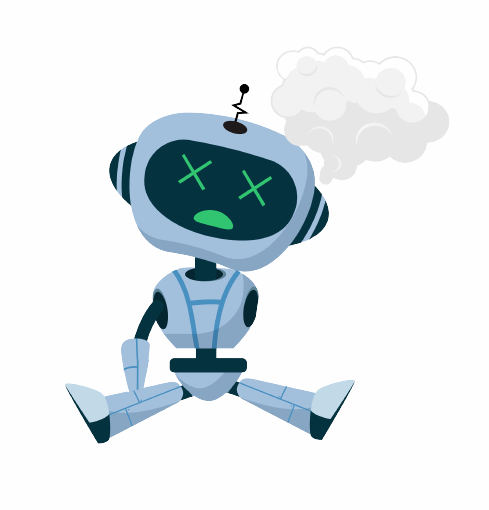
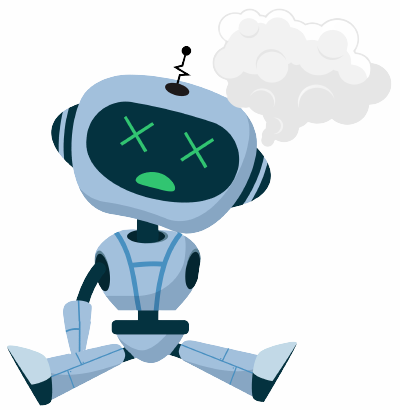
Imagen de vacio

Changed region(s): [[0.0, 0.1171, 0.75, 0.9951]]

diff --git a/app/components/OnBoardScreens.js b/app/components/OnBoardScreens.js
@@ -2,6 +2,7 @@ import { View, Image } from "react-native";
 import React from "react";
 import Onboarding from "react-native-onboarding-swiper";
 import saludo from "../../assets/images/saludo.png";
+import uno from "../../assets/images/uno.png";
 import robotPregunta from "../../assets/images/robotPregunta.png";
 import { Dimensions } from "react-native";
 
@@ -17,10 +18,8 @@ const OnBoardScreens = ({ setFirstLaunch }) => {
         pages={[
           {
             backgroundColor: "#F5F5F5",
-            image: (
-              <Image source={saludo} style={{ width: 300, height: 390 }} />
-            ),
-            title: "Bienvenido",
+            image: <Image source={uno} style={{ width: 196, height: 333 }} />,
+            title: "Bienvenid@!",
             subtitle:
               "Este es un pequeño tutorial que te enseñará a usar SmartFC.",
           },
@@ -53,7 +52,7 @@ const OnBoardScreens = ({ setFirstLaunch }) => {
         }}
         showSkip={false}
         bottomBarColor={"#F5F5F5"}
-        titleStyles={{ color: "#70C2E5", fontSize: 33 }}
+        titleStyles={{ color: "#70C2E5", fontSize: 33, fontWeight: "bold" }}
         subTitleStyles={{ color: "#424B5B", fontSize: 20 }}
       />
     </View>

diff --git a/app/components/empty.js b/app/components/empty.js
@@ -1,18 +1,36 @@
 import React from "react";
-import { View, Text, StyleSheet } from "react-native";
+import { View, Text, StyleSheet, Image } from "react-native";
+import { Stack, Flex, Spacer } from "@react-native-material/core";
+
 function Empty(props) {
   return (
-    <View style={styles.container}>
+    <Stack
+      style={styles.container}
+      direction="column"
+      alignItems="center"
+      spacing={6}
+    >
       <Text style={styles.text}>{props.text}</Text>
-    </View>
+      <Spacer />
+      <Image
+        style={{
+          width: 270,
+          height: 270,
+        }}
+        source={require("../../assets/images/sad.png")}
+      />
+    </Stack>
   );
 }
 const styles = StyleSheet.create({
   container: {
-    padding: 10,
+    padding: 20,
   },
   text: {
-    fontSize: 16,
+    marginTop: 35,
+    fontSize: 25,
+    fontWeight: "bold",
+    textAlign: "center",
   },
 });
 export default Empty;

diff --git a/App.js b/App.js
@@ -41,7 +41,7 @@ const App = () => {
     return (
       <Provider store={store}>
         <PersistGate loading={null} persistor={persistor}>
-          {firstLaunch && <OnBoardScreens setFirstLaunch={setFirstLaunch} />}
+          {<OnBoardScreens setFirstLaunch={setFirstLaunch} />}
           <AppNavigator />
         </PersistGate>
       </Provider>
